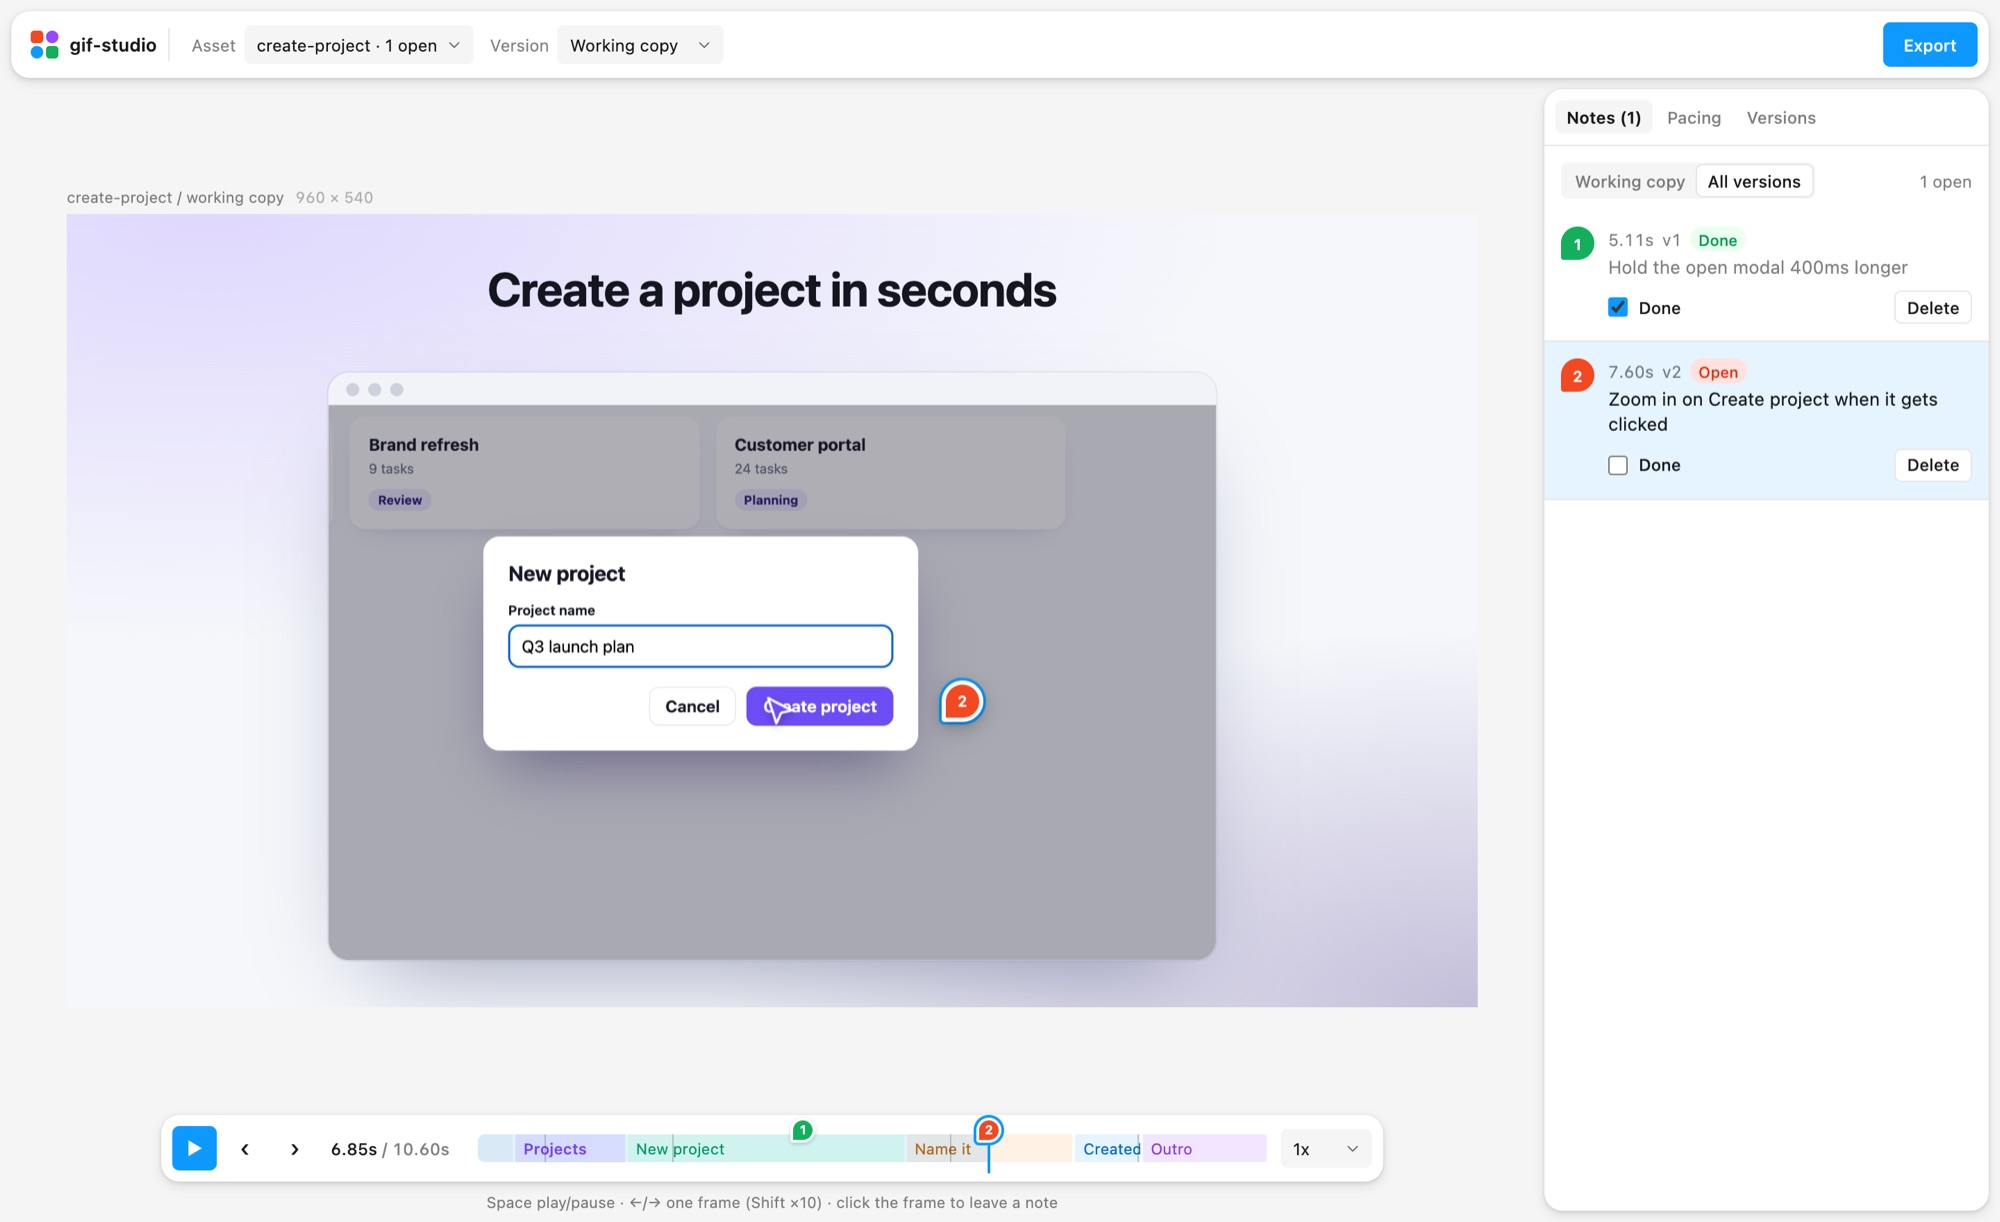
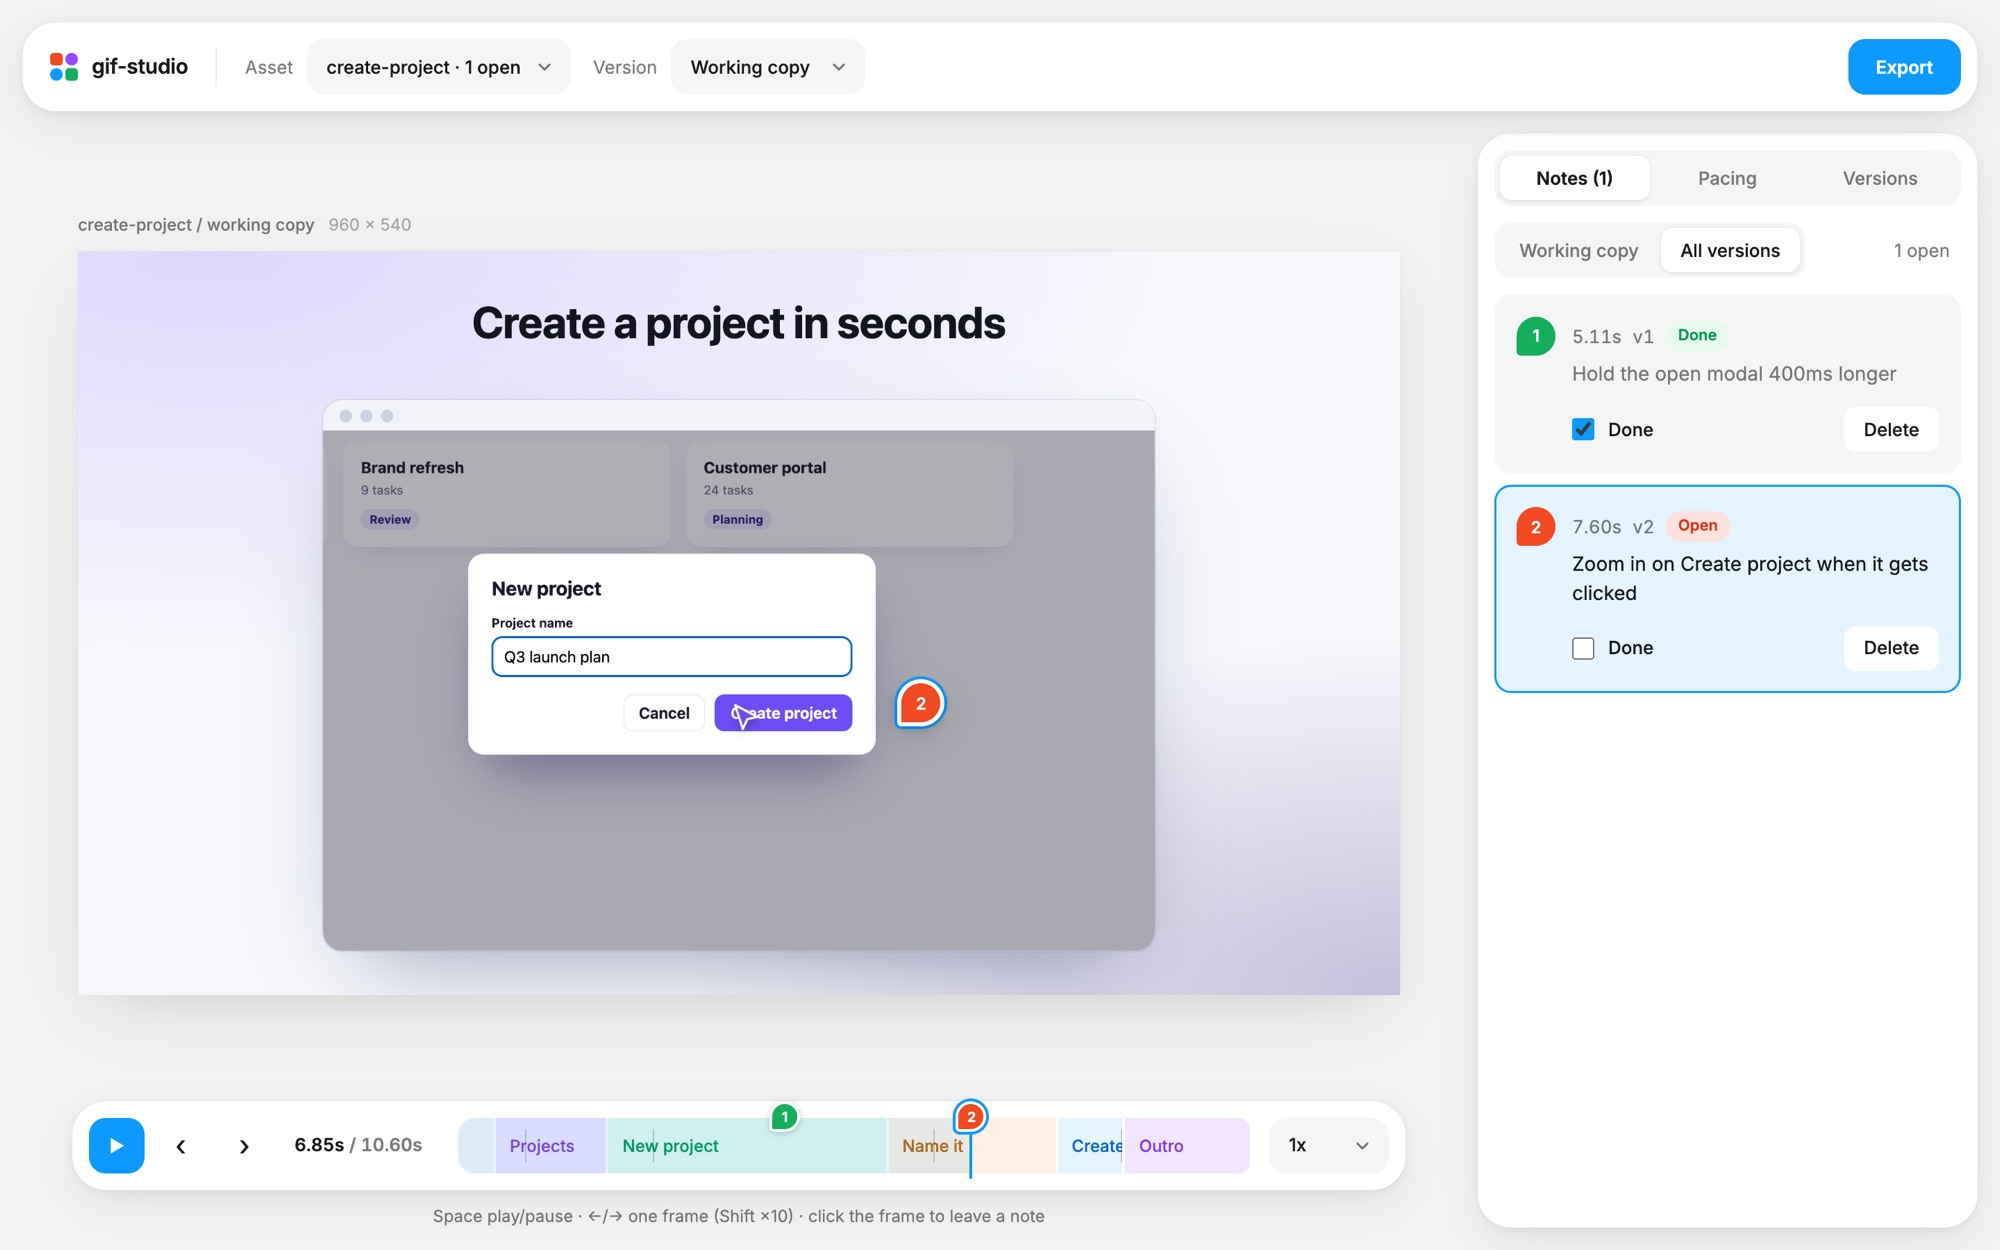
Update the studio screenshot

diff --git a/index.html b/index.html
@@ -127,7 +127,7 @@
       </div>
       <figure class="window reveal">
         <div class="window-bar" aria-hidden="true"><i></i><i></i><i></i><span>localhost:4466</span></div>
-        <img src="assets/studio-notes.jpg" width="2000" height="1222" alt="The gif-studio studio: a scene on the canvas with a comment pin, a timeline with colour-coded sections, and a notes panel with one open and one done note" />
+        <img src="assets/studio-notes.jpg" width="2000" height="1250" alt="The gif-studio studio: a scene on the canvas with a comment pin, a timeline with colour-coded sections, and a notes panel with one open and one done note" />
         <div class="cursor c-you still" style="left:66%;top:56%" aria-hidden="true">
           <svg viewBox="0 0 16 16" width="18" height="18"><path d="M1 1l5.5 14 2-6 6-2z" /></svg>
           <span>You</span>
